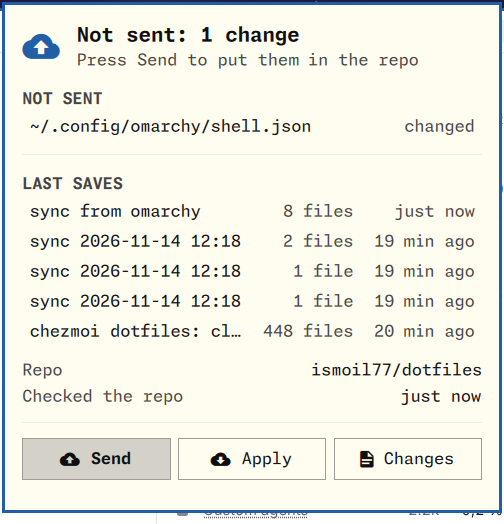
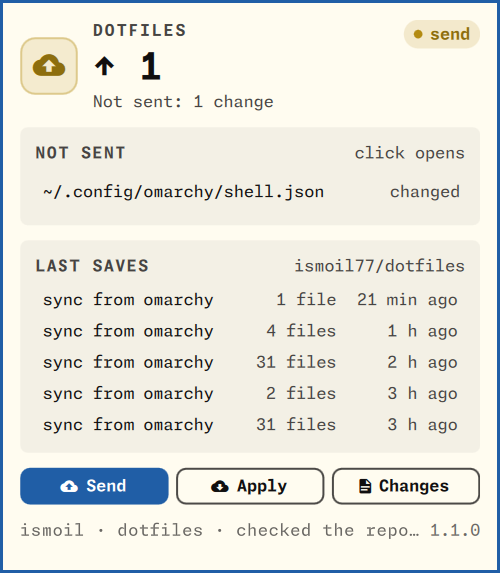
Header sentence full width (kit 2.0.2); new previews in the family look

diff --git a/kit/Header.qml b/kit/Header.qml
@@ -46,13 +46,16 @@ Item {
     id: labels
     anchors.left: mark.right
     anchors.leftMargin: Style.space(12)
-    anchors.right: chipItem.visible ? chipItem.left : parent.right
-    anchors.rightMargin: chipItem.visible ? Style.space(8) : 0
+    anchors.right: parent.right
     anchors.verticalCenter: parent.verticalCenter
     spacing: Style.space(1)
 
+    // The chip sits beside the name and the figure only: the sentence below
+    // runs under it, the whole width.
+    readonly property real besideChip: width - (chipItem.visible ? chipItem.width + Style.space(8) : 0)
+
     Text {
-      width: parent.width
+      width: parent.besideChip
       textFormat: Text.PlainText
       text: header.name.toUpperCase()
       color: header.look.dim
@@ -65,7 +68,7 @@ Item {
 
     Text {
       visible: text !== ""
-      width: parent.width
+      width: parent.besideChip
       textFormat: Text.PlainText
       text: header.value
       color: header.look.ink
